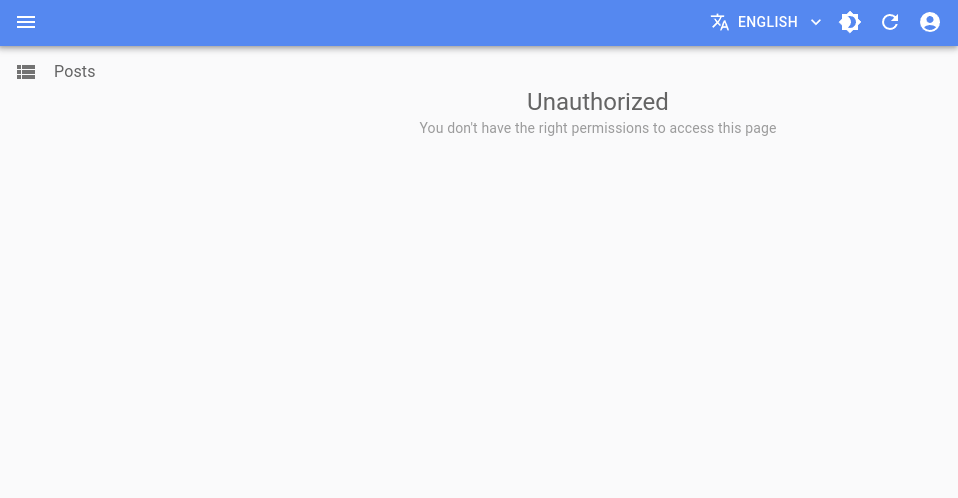
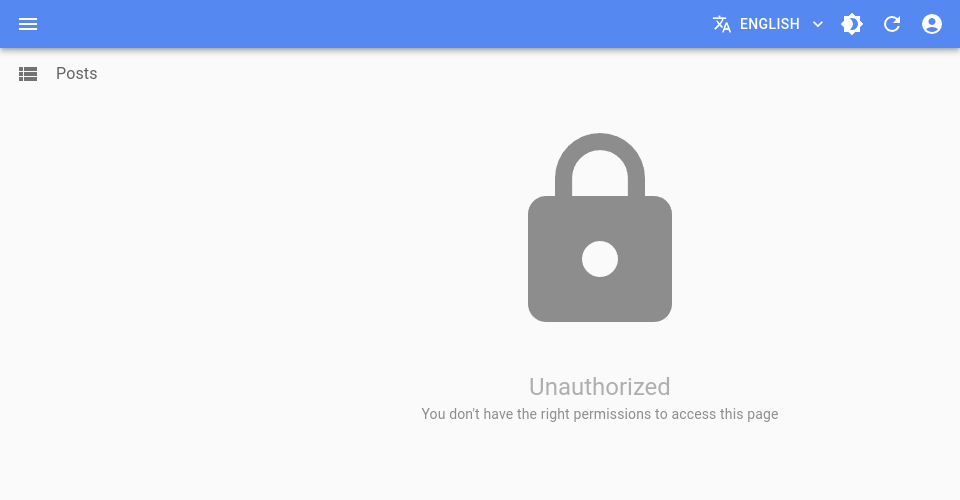
Update Unauthorized design

diff --git a/packages/ra-ui-materialui/src/layout/Unauthorized.tsx b/packages/ra-ui-materialui/src/layout/Unauthorized.tsx
@@ -1,5 +1,6 @@
 import * as React from 'react';
 import { styled } from '@mui/material/styles';
+import LockIcon from '@mui/icons-material/Lock';
 import { Typography, SxProps } from '@mui/material';
 import clsx from 'clsx';
 import { useTranslate } from 'ra-core';
@@ -7,6 +8,7 @@ import { useTranslate } from 'ra-core';
 export const Unauthorized = (props: UnauthorizedProps) => {
     const {
         className,
+        icon = DEFAULT_ICON,
         unauthorizedPrimary = 'ra.page.unauthorized',
         unauthorizedSecondary = 'ra.message.unauthorized',
         ...rest
@@ -15,6 +17,7 @@ export const Unauthorized = (props: UnauthorizedProps) => {
     return (
         <Root className={clsx(UnauthorizedClasses.root, className)} {...rest}>
             <div className={UnauthorizedClasses.message}>
+                {icon}
                 <Typography variant="h5" mt={3} color="text.secondary">
                     {translate(unauthorizedPrimary, { _: unauthorizedPrimary })}
                 </Typography>
@@ -32,6 +35,7 @@ export interface UnauthorizedProps {
     className?: string;
     unauthorizedPrimary?: string;
     unauthorizedSecondary?: string;
+    icon?: React.ReactNode;
     sx?: SxProps;
 }
 
@@ -39,6 +43,7 @@ const PREFIX = 'RaUnauthorized';
 
 export const UnauthorizedClasses = {
     root: `${PREFIX}-root`,
+    icon: `${PREFIX}-icon`,
     message: `${PREFIX}-message`,
 };
 
@@ -48,11 +53,19 @@ const Root = styled('div', {
 })({
     display: 'flex',
     flexDirection: 'column',
+    justifyContent: 'center',
     alignItems: 'center',
     height: '100%',
     [`& .${UnauthorizedClasses.message}`]: {
         textAlign: 'center',
         paddingTop: '1em',
         paddingBottom: '1em',
+        opacity: 0.5,
+    },
+    [`& .${UnauthorizedClasses.icon}`]: {
+        width: '9em',
+        height: '9em',
     },
 });
+
+const DEFAULT_ICON = <LockIcon className={UnauthorizedClasses.icon} />;
